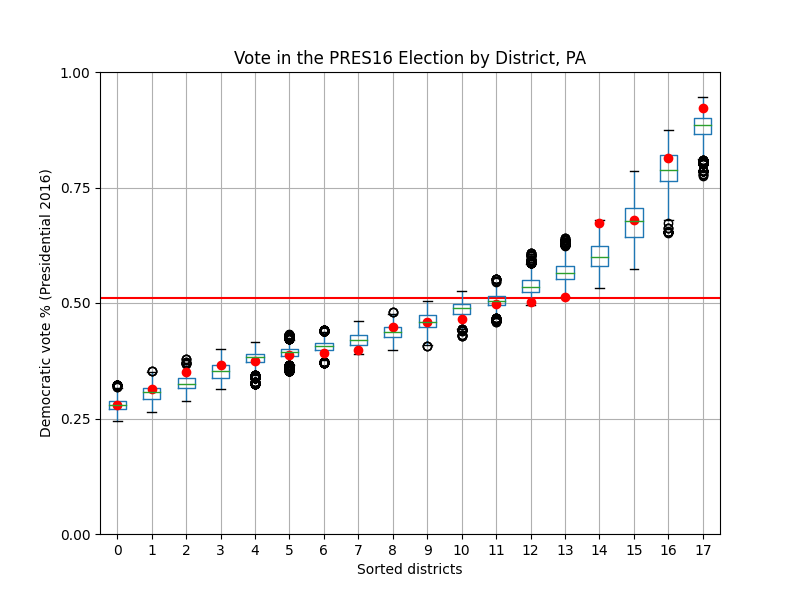
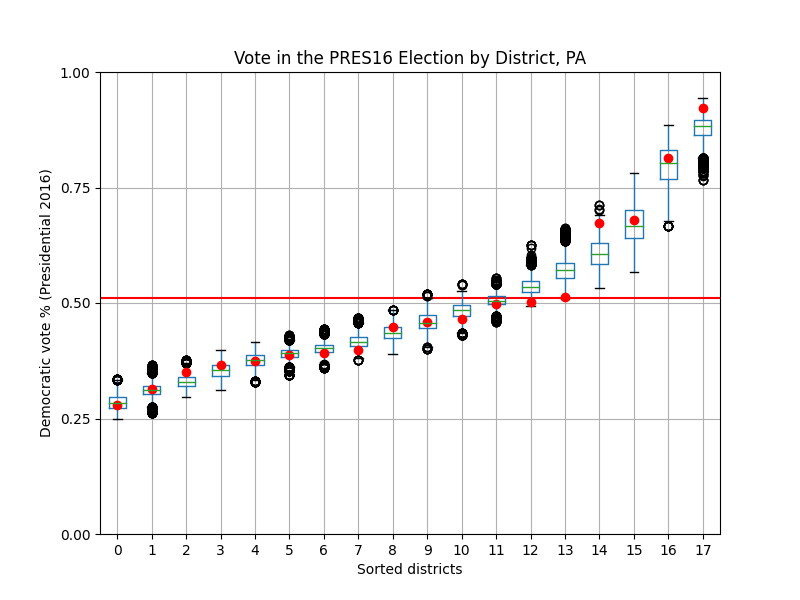
larger ensemble for some states

diff --git a/program_v2_1.py b/program_v2_1.py
@@ -491,13 +491,13 @@ def analysis(STATE, TOTAL_STEPS, ELECTION_USED):
     
     row = 0
     for partition in [initial_partition, minority_partition]:
-        partition.plot(units, ax=axMap[row,0], cmap=tab40)
+        partition.plot(units, ax=axMap[row,0], cmap=tab40[:len(initial_partition.parts)])
         partition.plot(units, ax=axMap[row,1], cmap=minority_coloring(partition))
         partition.plot(units, ax=axMap[row,2], cmap=partisan_coloring(partition))
         row += 1
     row = 0
     for partition in [regression_partition, competitive_partition]:
-        partition.plot(units, ax=axMap2[row,0], cmap=tab40)
+        partition.plot(units, ax=axMap2[row,0], cmap=tab40[:len(initial_partition.parts)])
         partition.plot(units, ax=axMap2[row,1], cmap=minority_coloring(partition))
         partition.plot(units, ax=axMap2[row,2], cmap=partisan_coloring(partition))
         row += 1
@@ -532,11 +532,11 @@ analysis('CO', 8000, 'GOV18') # cleared
 analysis('GA', 12000, 'PRES16') # cleared
 analysis('MI', 10000, 'PRES16') # cleared - remade the json
 analysis('MN', 6000, 'PRES16') # cleared
-analysis('NC', 14000, 'PRES16') # cleared; error with shapefile
-analysis('OH', 6000, 'PRES16') # cleared
-analysis('PA', 6000, 'PRES16') # cleared
-analysis('TX', 10000, 'PRES16') # cleared; error with shapefile
-analysis('WI', 5000, 'PRES16') # cleared
+analysis('NC', 20000, 'PRES16') # cleared; error with shapefile
+analysis('OH', 12000, 'PRES16') # cleared
+analysis('PA', 12000, 'PRES16') # cleared
+analysis('TX', 15000, 'PRES16') # cleared; error with shapefile
+analysis('WI', 10000, 'PRES16') # cleared
 
 # TEST
 # analysis('NC', 10, 'PRES16')
